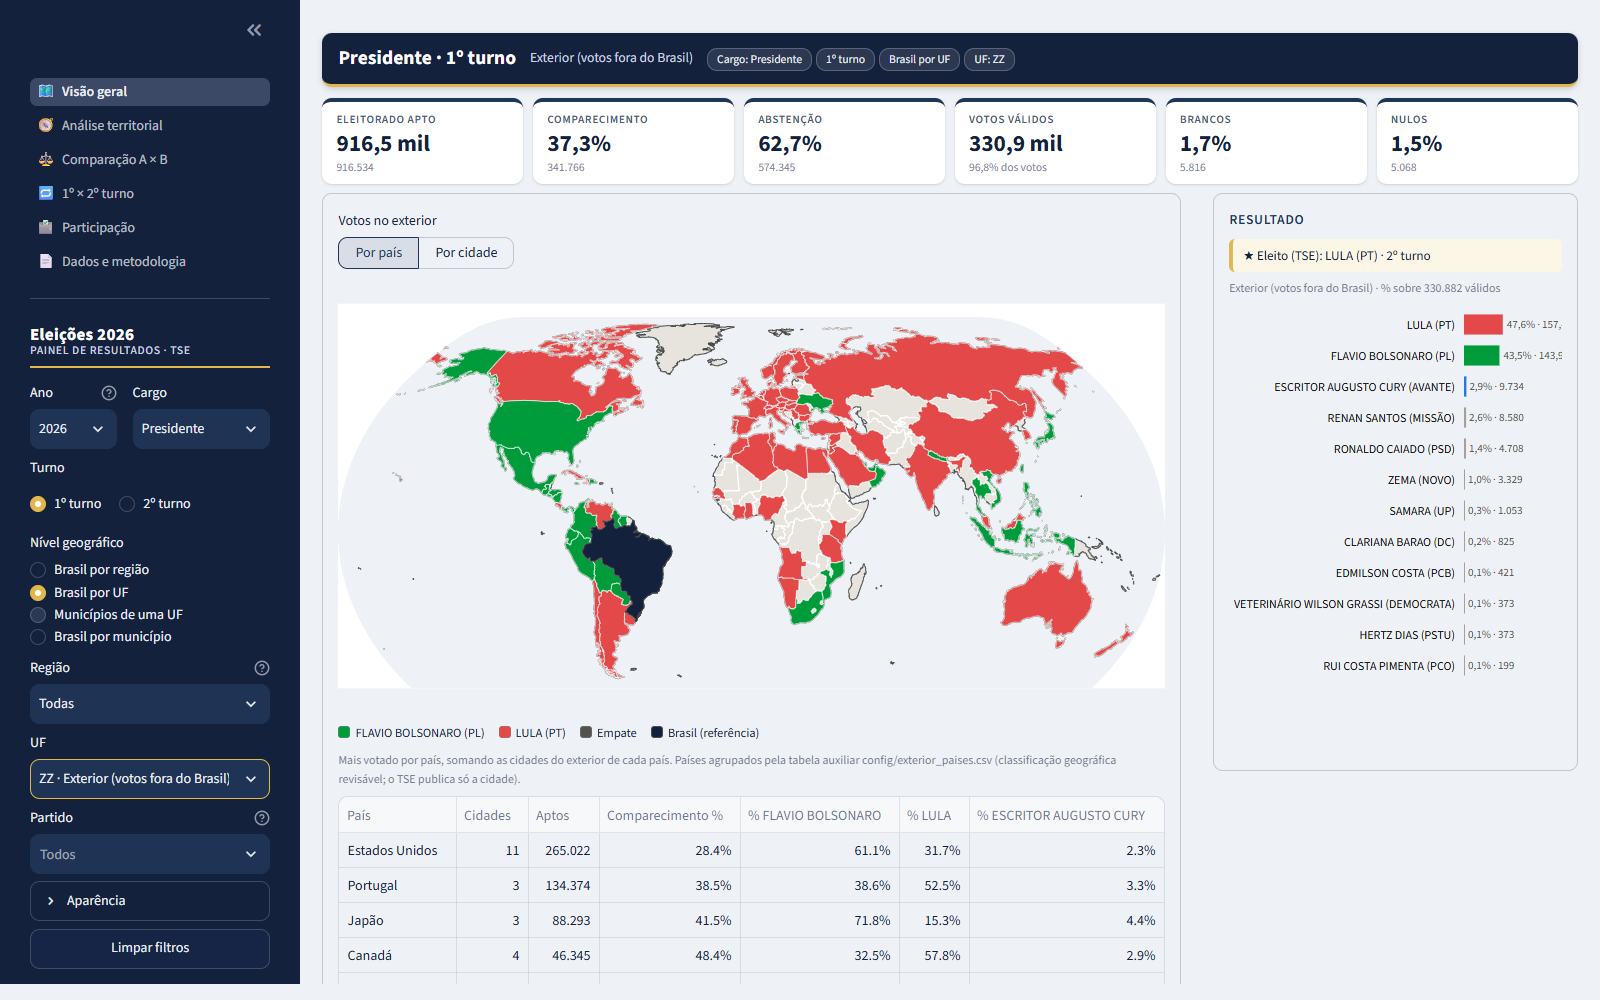
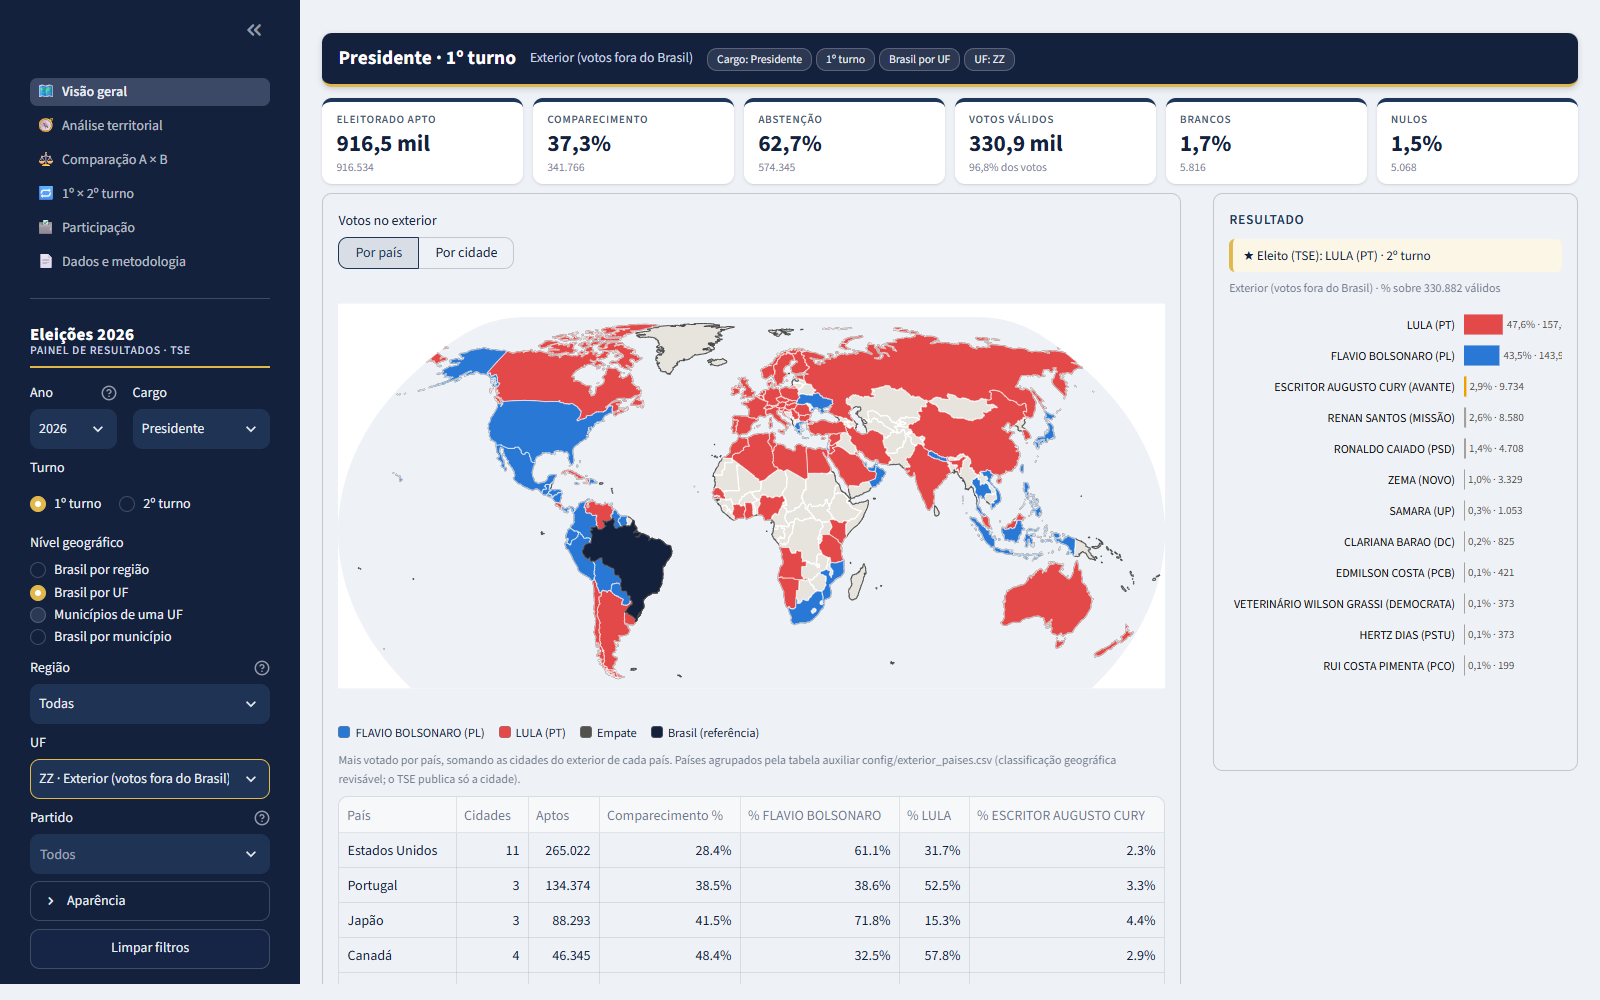
PL para azul e atualiza os prints

diff --git a/src/componentes/filtros.py b/src/componentes/filtros.py
@@ -140,9 +140,9 @@ def barra_lateral() -> Contexto:
     ap_box = sb.expander("Aparência")
     paleta = ap_box.radio("Paleta de liderança", ["padrao", "daltonismo"], key="f_paleta",
                       format_func={"padrao": "Padrão", "daltonismo": "Alternativa (Okabe-Ito)"}.get,
-                      help="Padrão: respeita as cores de partido configuradas (ex.: PL verde, PT vermelho), "
-                           "que podem se confundir para daltônicos. Alternativa: troca cores fixas que se "
-                           "confundam. No mapa escuro, usa-se a padrão.")
+                      help="Padrão: respeita as cores de partido configuradas, mesmo que se confundam para "
+                           "daltônicos. Alternativa: troca cores fixas que se confundam. No mapa escuro, "
+                           "usa-se a padrão.")
     fundo = ap_box.radio("Fundo do mapa", ["claro", "escuro"], key="f_fundo", horizontal=True)
     if sb.button("Limpar filtros", use_container_width=True):
         limpar_filtros()
